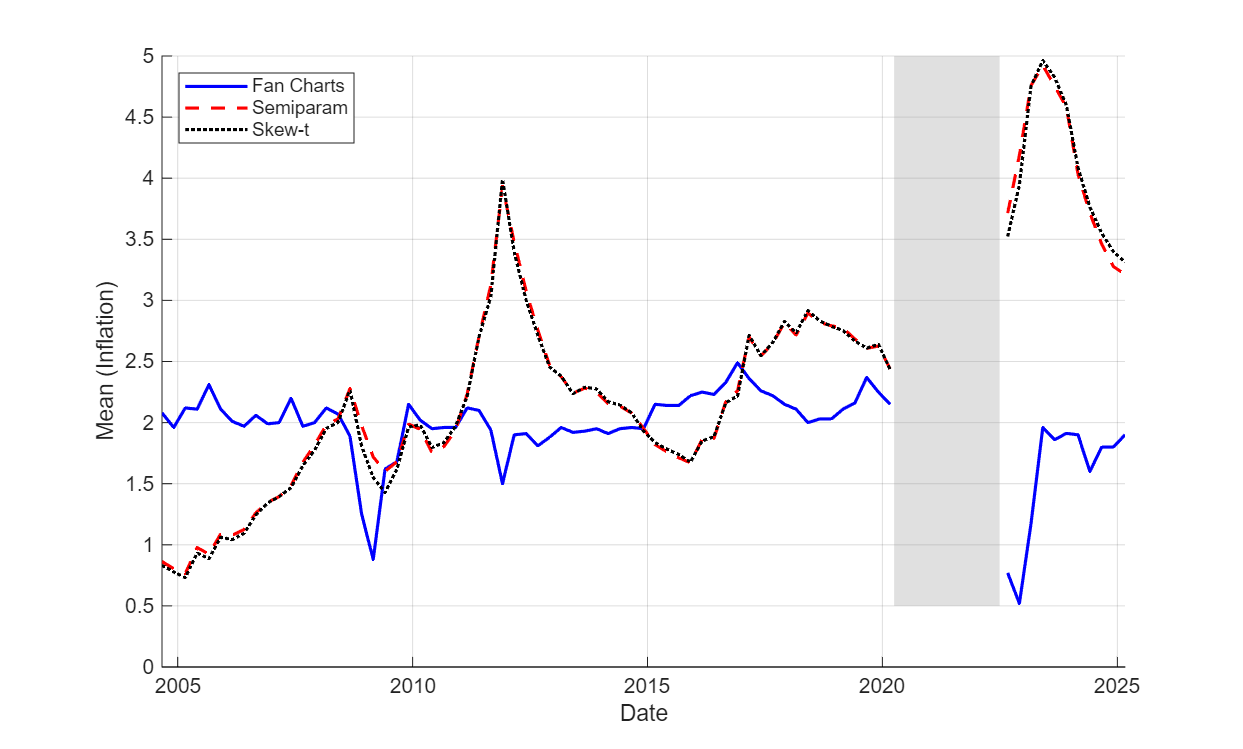
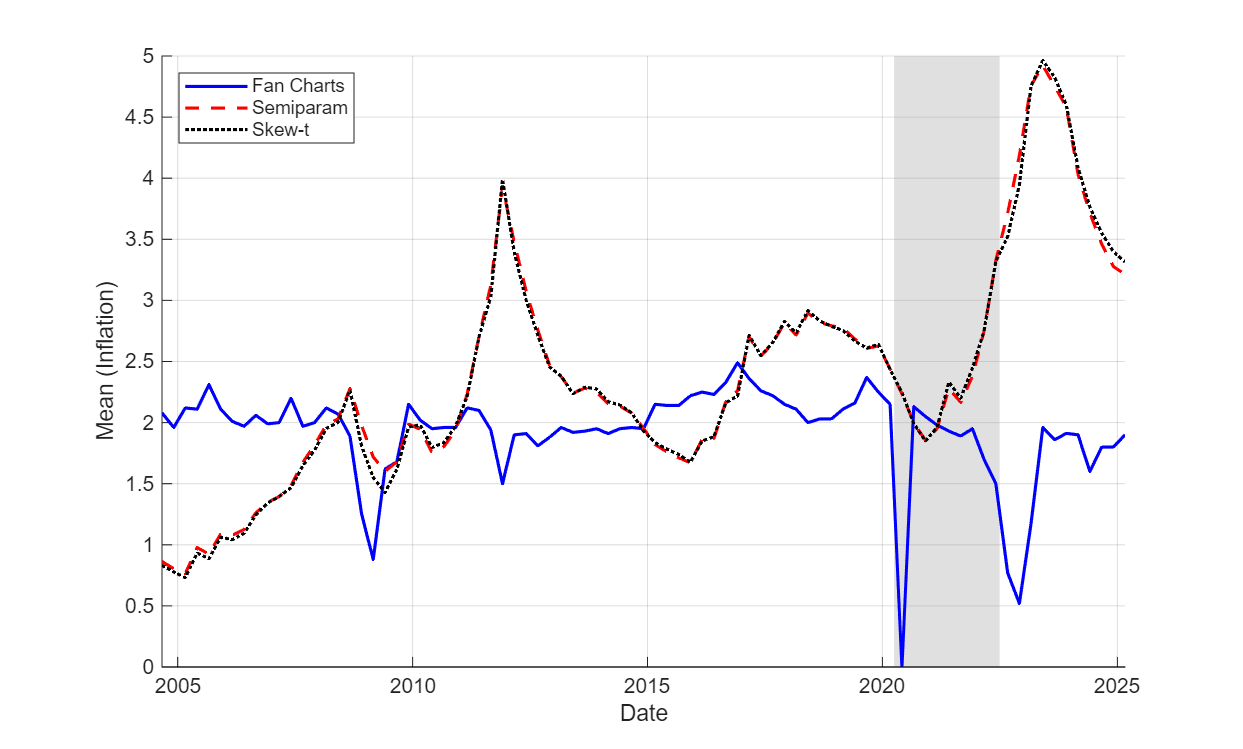
Made cosmetic changes to moments charts

diff --git a/IaR_GaR_April_2026/moment_charts.m b/IaR_GaR_April_2026/moment_charts.m
@@ -74,6 +74,7 @@ cfg(1).sktStepMonths = 3;   % growth skew-t horizons step in quarters
 % for growth only, one row per metric (mean/std/skew), matching the
 % bounds used previously for the growth charts.
 cfg(1).yClamp = [-10 10; -8 8; -4 4];
+cfg(1).covidBlank   = true;   % blank moments during Covid, as in the fan charts
 
 cfg(2).name         = 'Inflation';
 cfg(2).fileTag       = 'inflation';
@@ -84,6 +85,7 @@ cfg(2).boeStepMonths = 3;   % BoE inflation horizons step in quarters
 cfg(2).smpStepMonths = 1;   % inflation semi-param horizons step in MONTHS
 cfg(2).sktStepMonths = 1;   % inflation skew-t horizons step in MONTHS
 cfg(2).yClamp = [];         % no axis clamping for inflation
+cfg(2).covidBlank   = false;  % leave inflation series intact through Covid (shading only)
 
 %% ---- Main loop over variables --------------------------------------
 for v = 1:numel(cfg)
@@ -122,8 +124,16 @@ for v = 1:numel(cfg)
         [~, sktRows] = ismember(commonDates, sktKey);
 
         % Covid mask on the (shared) origin-date axis. Computed once per
-        % variable/metric since it does not depend on horizon here.
-        covidMask = commonDates >= shadeStart & commonDates <= shadeEnd;
+        % variable/metric since it does not depend on horizon here. Only
+        % applied for variables with covidBlank = true (growth); for
+        % inflation this stays all-false, so nothing gets blanked and the
+        % series is plotted exactly as before, with the grey patch as
+        % the only Covid marker.
+        if vcfg.covidBlank
+            covidMask = commonDates >= shadeStart & commonDates <= shadeEnd;
+        else
+            covidMask = false(size(commonDates));
+        end
 
         for h = 1:numel(targetMonths)
 
